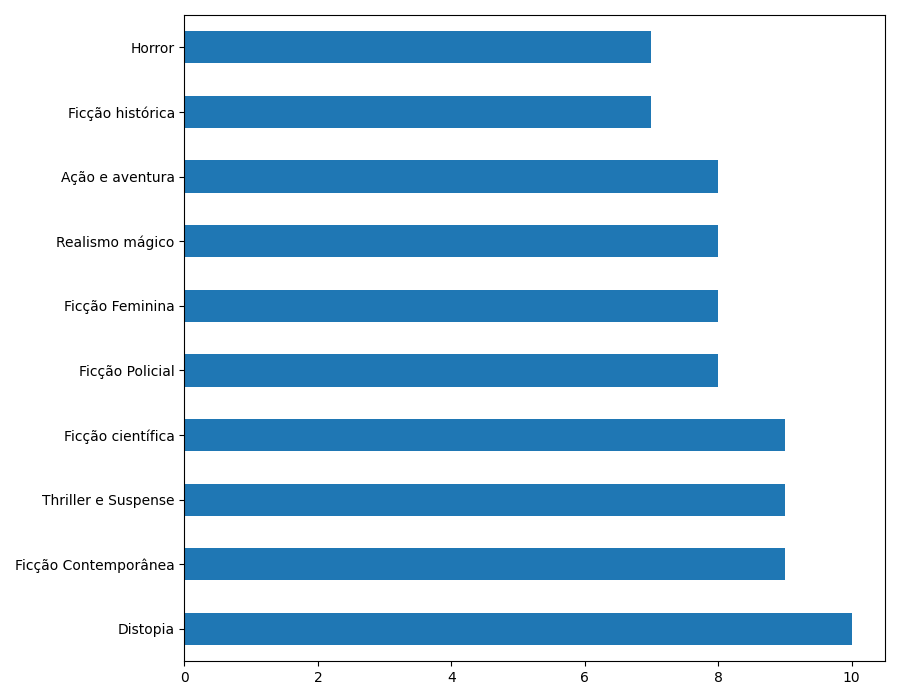
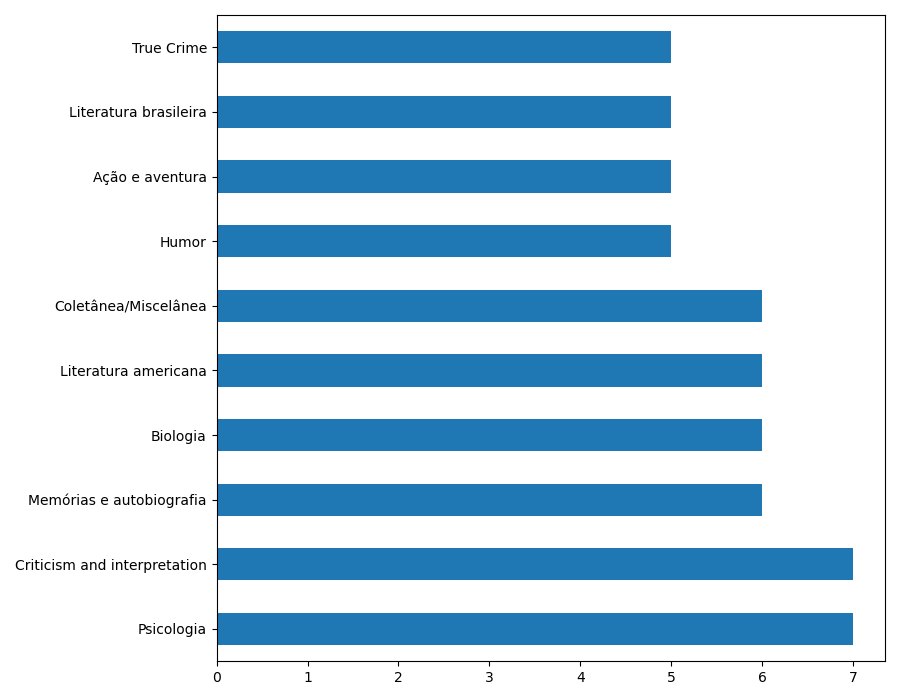
recommend ajustado e pdf_corrigido

diff --git a/scripts/recommendation.py b/scripts/recommendation.py
@@ -12,12 +12,12 @@ import json
 # O id do usuário deve ser passado como string 
 # EXEMPLO DE CHAMADA "python recommendation.py -uid {id_usuario}"
 
-parser = argparse.ArgumentParser()
-parser.add_argument("-uid", "--userId",type=str)
-args = parser.parse_args()
+# parser = argparse.ArgumentParser()
+# parser.add_argument("-uid", "--userId",type=str)
+# args = parser.parse_args()
 
-id = args.userId
-id= ObjectId(id)
+# id = args.userId
+id= ObjectId('63729f17011783b55d9423fb')
 
 #MONGO CONECCTION
 client = MongoClient()
@@ -96,18 +96,31 @@ def get_books_recommendations(user_id, cosine_sim):
     # Get the index of the movie that matches the title
     idx = indices[user_id]
 
-    # Get the pairwsie similarity scores of all movies with that movie
-    # Sort the movies based on the similarity scores
-    sim_scores = df2[idx].sort_values(ascending=False)
-    # sim_scores = df2.loc[df2[idx]>=0].sort_values(ascending=False, by=idx)
+    # Get the pairwsie similarity scores of all books with that movie
+    # Sort the books based on the similarity scores
 
-    # Get the scores of the 10 most similar movies
-    sim_scores = sim_scores[1:50]
-
+    sim_scores_rec = df2.loc[df2[idx]>0].sort_values(ascending=False, by=idx)
+    
+    sim_scores = sim_scores_rec
     # Get the movie indices
     books_indices = [i for i in sim_scores.index]
+    next_ind = 1
+    while len (books_indices ) <=15:
+        idx = sim_scores.index[next_ind]
+        sim_scores = df2.loc[df2[idx]>0].sort_values(ascending=False, by=idx)
+        nb = [i for i in sim_scores.index]
+        for a in nb:
+            if a not in books_indices:
+                books_indices.append(a)
+        next_ind+=1
 
-    # Return the top 10 most similar movies
+    if len(books_indices) >= 50:
+        sim_scores = sim_scores[1:40]
+        books_indices = [i for i in sim_scores.index]
+    # Get the scores of the 10 most similar books
+    # sim_scores = sim_scores[1:30]
+
+    # Return the top 10 most similar books
     return books_indices
 
 

diff --git a/scripts/generate_report/pdf_reports.py b/scripts/generate_report/pdf_reports.py
@@ -6,11 +6,11 @@ from fpdf import FPDF, HTMLMixin
 from pymongo import MongoClient
 import argparse
 
-parser = argparse.ArgumentParser()
-parser.add_argument("-url", "--page",type=str)
-args = parser.parse_args()
+# parser = argparse.ArgumentParser()
+# parser.add_argument("-url", "--page",type=str)
+# args = parser.parse_args()
 
-signal= args.page
+signal= 'ads'
 
 #MONGO CONECCTION
 client = MongoClient()
@@ -138,7 +138,6 @@ def ads_pdf():
     pdf.set_font('Times', size=11, style='B')
 
     #Terceiro tabela gráfico - Livros mais caros
-    pdf.add_page()
     pdf.set_font('')
     pdf.set_font('Times', size = 14, style = '')
     pdf.cell(190, 5, txt = 'Livros mais caros anunciados', ln=1, align='C')
@@ -205,7 +204,7 @@ def user_pdf():
             self.image(f'scripts/generate_report/logo-min.png',10,6,22)
             self.set_font('Arial', 'B', 10)
             self.cell(80)
-            self.cell(100,32,f'Relatório de Anúncios Liber', 0, 0, 'R')
+            self.cell(100,32,f'Relatório de Usuários Liber', 0, 0, 'R')
             self.ln(20)
             self.line(10,30,200,30)
             self.ln(3)
@@ -324,7 +323,7 @@ def books_pdf():
             self.image(f'scripts/generate_report/logo-min.png',10,6,22)
             self.set_font('Arial', 'B', 10)
             self.cell(80)
-            self.cell(100,32,f'Relatório de Anúncios Liber', 0, 0, 'R')
+            self.cell(100,32,f'Relatório de Livros Liber', 0, 0, 'R')
             self.ln(20)
             self.line(10,30,200,30)
             self.ln(3)

diff --git a/scripts/generate_report/generate_data_reports.py b/scripts/generate_report/generate_data_reports.py
@@ -264,7 +264,9 @@ for use in users.aggregate(user_pipeline):
 
 df_users = pd.json_normalize(user_bank, max_level=0)
 for ind, x in enumerate(df_users['genre']):
-    df_users.at[ind, 'genre'] = x[0]
+    if len(x)>0:
+        df_users.at[ind, 'genre'] = x[0]
+    else: ''.join(x)
 
 #cRIAR TABELA GENEROS PREFERIDOS
 generos_populares = df_users['genre'].value_counts().sort_values(ascending=False).head(10)
